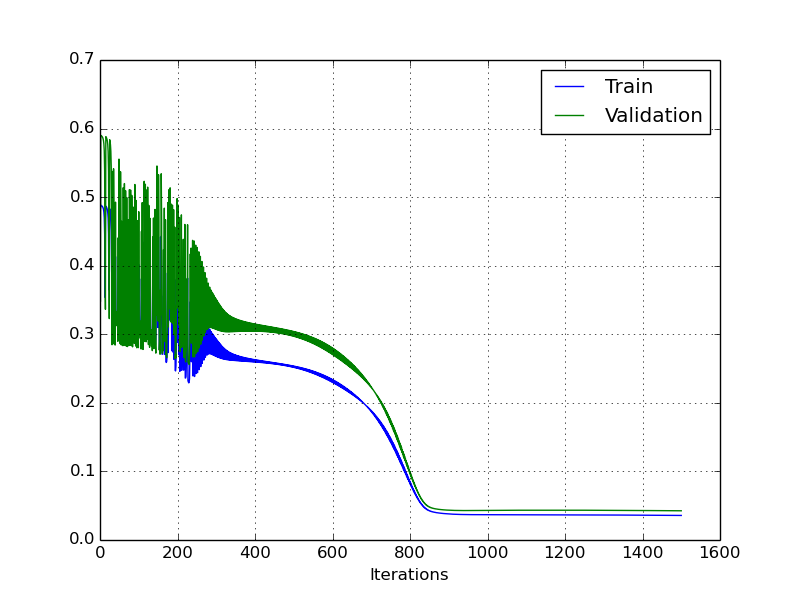
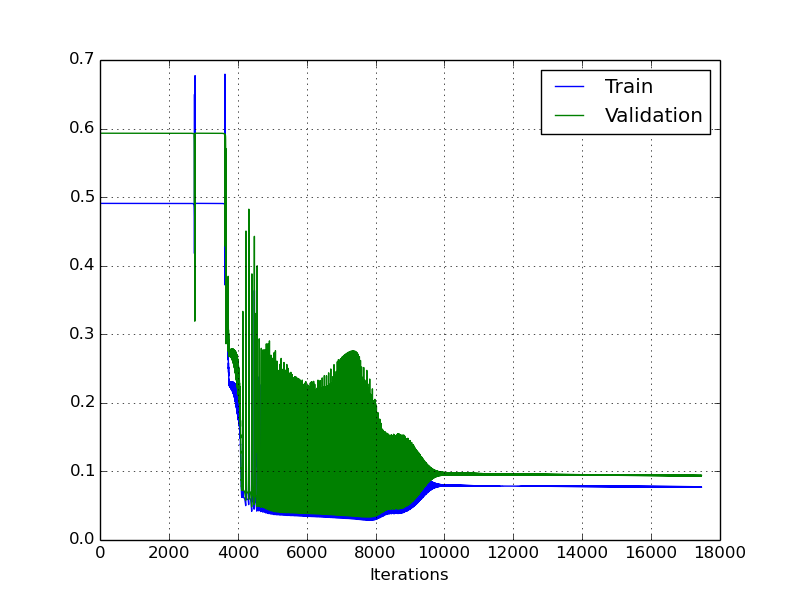
added graphs

diff --git a/batch_training_clean.cpp b/batch_training_clean.cpp
@@ -8,9 +8,9 @@
 #define hidden2  10
 #define output 1
 #define numPatterns 1999
-#define numEpochs 2000
+#define numEpochs 20000
 #define stoping_error 0.03
-#define lR 0.005
+#define lR 0.009
 #define n 3
 
 double buffer[n] = {0};
@@ -522,11 +522,13 @@ void initData()
 int main(void)
 {
     double moving_avg = 0.0;
+    double bestvalidation = 9999;
+    int patience = 500;
     // seed random number function
-    FILE *validationerrorfile;
+    FILE *validationerrorfile, *test;
     //trainerror = fopen ("err_train.txt","w");
     validationerrorfile = fopen("err_validate.txt","w");
-
+    test = fopen("loopenter.txt","w");
     srand(time(NULL));
     // initiate the weights
     initWeights();
@@ -555,32 +557,71 @@ int main(void)
         calcOverallError();
         calcValidationError();
 
+        if(RMSerrorvalidation<bestvalidation){
+            bestvalidation = RMSerrorvalidation;
+        }
+
         //Write to file for graph plotting
         fprintf(validationerrorfile,"%lf %lf \n",RMSerrortrain,RMSerrorvalidation);
-        printf("After %d epoch, RmsTrain = %lf RMSvalidate = %lf \n",j,RMSerrortrain,RMSerrorvalidation);
+        printf("After %d epoch, RmsTrain = %lf RMSvalidate = %lf best =%lf pat=%d\n ",j,RMSerrortrain,RMSerrorvalidation,bestvalidation,patience);
 
 
         ///Early Stopping
         moving_avg = Filter(RMSerrorvalidation);
+
+
         if(RMSerrorvalidation<stoping_error)
         {
-            if((moving_avg-RMSerrorvalidation)<0.00001 )
+            //printf("After %d epoch, RmsTrain = %lf RMSvalidate = %lf fract =%lf best = %lf\n ",j,RMSerrortrain,RMSerrorvalidation,bestvalidation*0.99,bestvalidation);
+             if(RMSerrorvalidation<bestvalidation*0.99)
             {
-                //            if (RMSerrorvalidation > moving_avg+0.1){
-                //                continue;
-                //            }
-                //            else{
-                printf("difference => %f - %f = %lf\n",moving_avg,RMSerrorvalidation,(moving_avg-RMSerrorvalidation));
-                //printf("Moving avg = %lf\n",moving_avg);
-                //printf("%lf\n",RMSerrorvalidation);
-                //displayResults();
-                exit(0);
-                //}
+                    patience = j + patience;
+                    //            if (RMSerrorvalidation > moving_avg+0.1){
+                    //                continue;
+                    //            }
+                    //            else{
+                    printf("\n\n\n\ndifference => %f - %f = %lf\n",moving_avg,RMSerrorvalidation,(moving_avg-RMSerrorvalidation));
+
+                    fprintf(test,"\n\n\n\ndifference => %f - %f = %lf\n",moving_avg,RMSerrorvalidation,(moving_avg-RMSerrorvalidation));
+                    //exit(0);
+                    //printf("Moving avg = %lf\n",moving_avg);
+                    //printf("%lf\n",RMSerrorvalidation);
+                    //displayResults();
+
+                    //}
+                }
+
+//            if(j>= patience){
+//                printf("\n\nexit\n");
+//                exit(0);
+//                }
+
             }
-        }
 
     }
+
+
+
+//        if(RMSerrorvalidation<stoping_error)
+//        {
+//            if((moving_avg-RMSerrorvalidation)<0.0001 )
+//            {
+//                //            if (RMSerrorvalidation > moving_avg+0.1){
+//                //                continue;
+//                //            }
+//                //            else{
+//                printf("difference => %f - %f = %lf\n",moving_avg,RMSerrorvalidation,(moving_avg-RMSerrorvalidation));
+//                //printf("Moving avg = %lf\n",moving_avg);
+//                //printf("%lf\n",RMSerrorvalidation);
+//                //displayResults();
+//                exit(0);
+//                //}
+//            }
+//        }
+
+
     fclose(validationerrorfile);
+    fclose(test);
     ///training has finished
     ///display the results from training set
     printf("\n------------------------------------------------------------\n");
